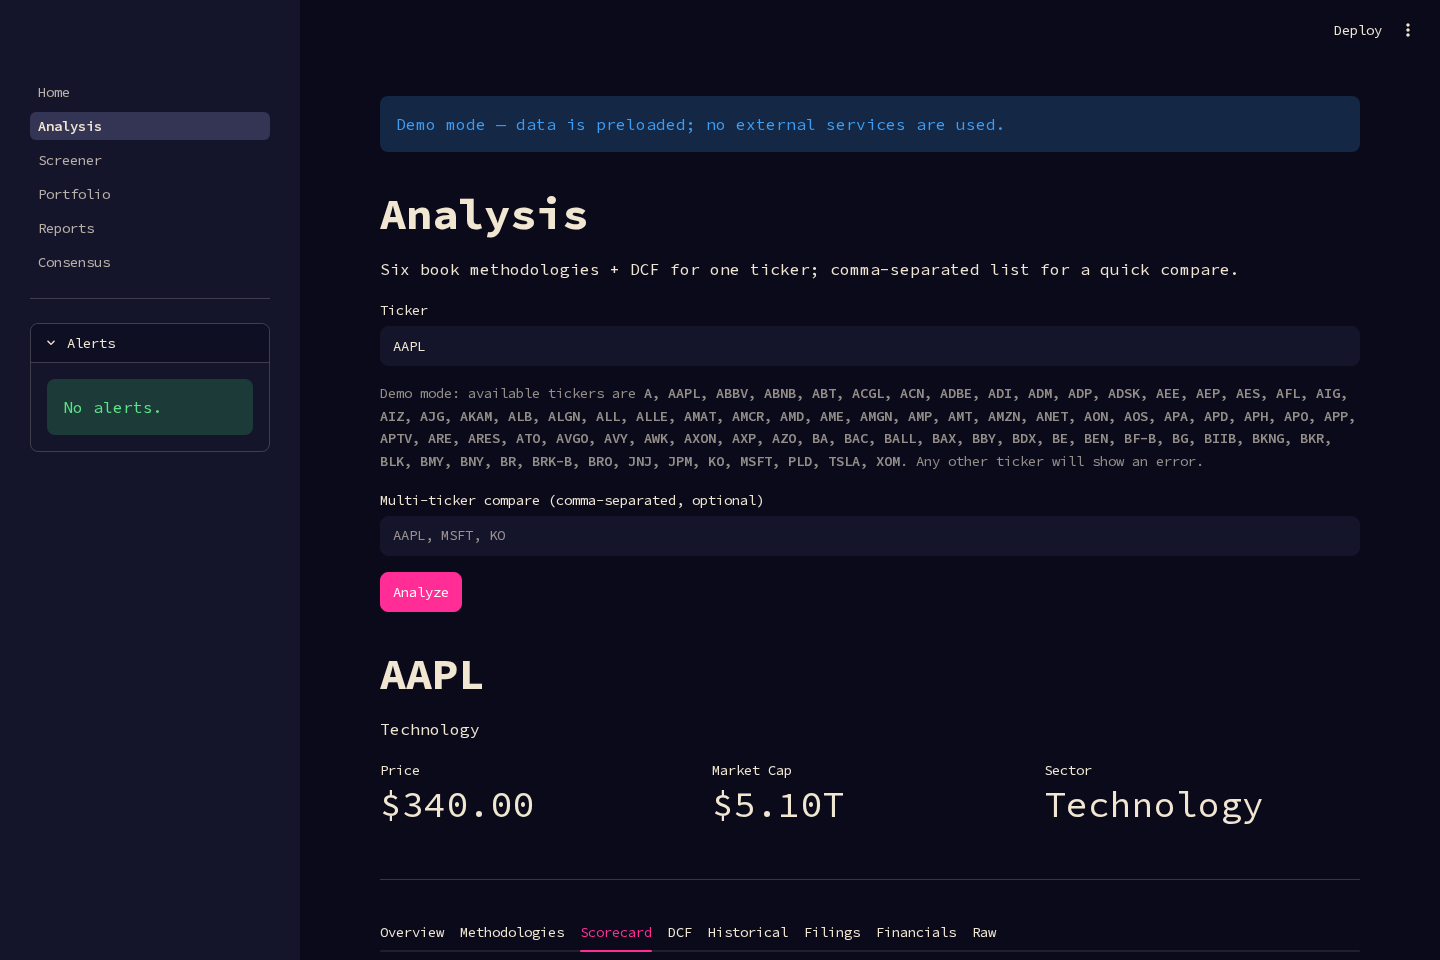
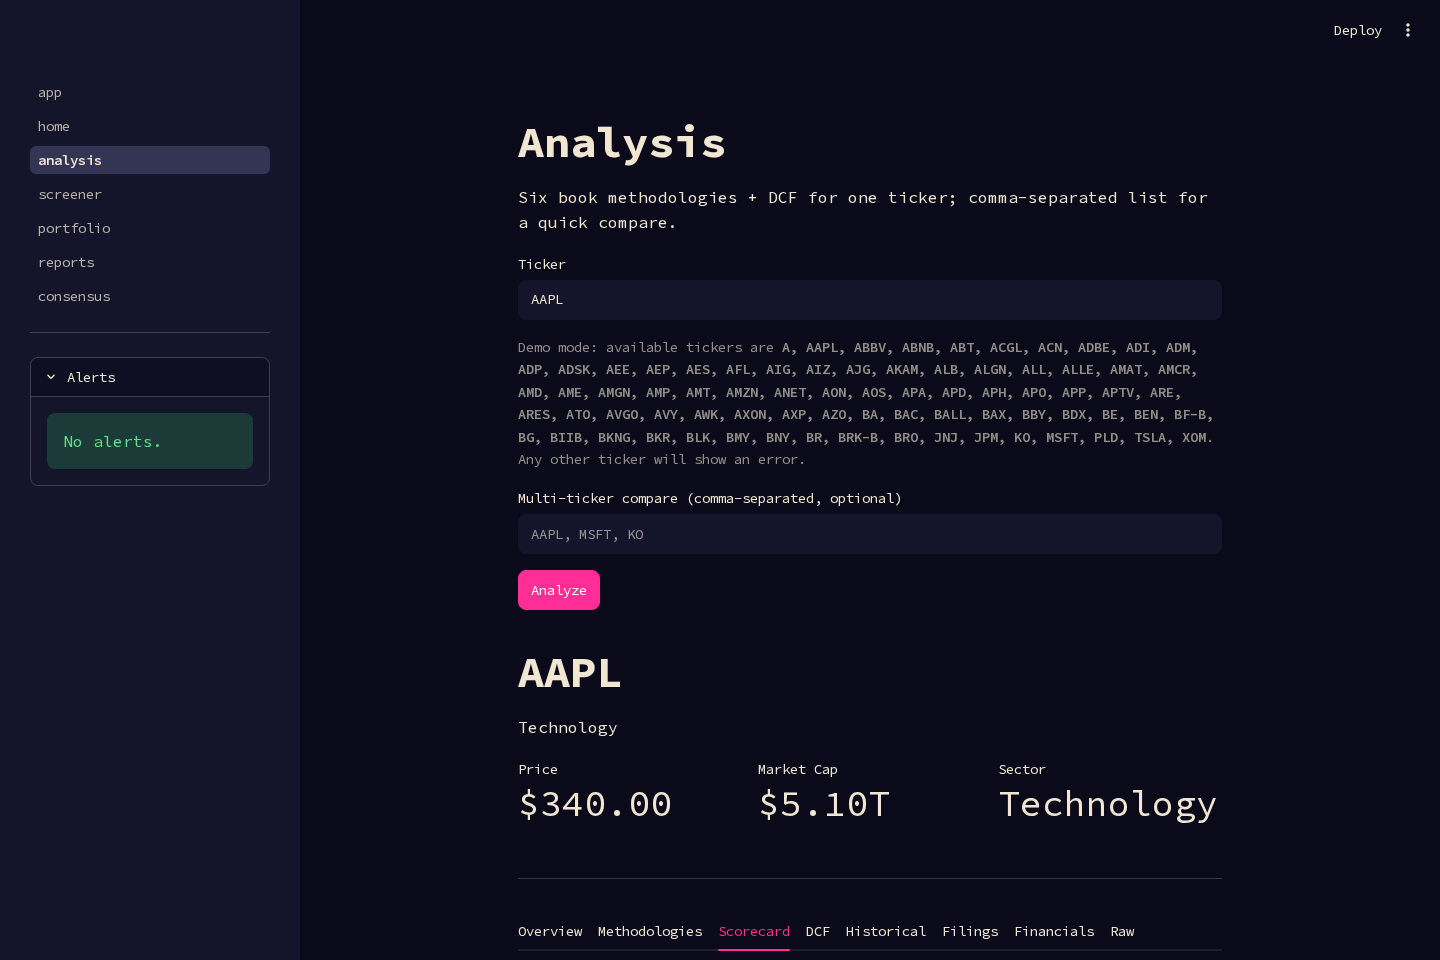
feat(scorecard): multi-select dimension filter for radar

diff --git a/tests/unit/test_ui_scorecard_tab.py b/tests/unit/test_ui_scorecard_tab.py
@@ -399,6 +399,138 @@ def test_focus_selector_lists_the_dimensions(monkeypatch):
     assert focus.options == ["—", *_DIMENSION_LABELS]
 
 
+# --- radar dimension filter (approved option B) ---------------------------
+# The filter is presentation-only: the six cards always render in full, and
+# the default (all six checked) draws the exact pre-filter radar.
+
+
+def _spy_radar_figure(monkeypatch):
+    """Record the ``dimensions`` each radar render receives (still builds it)."""
+    from ui.charts import radar_figure as _real
+
+    captured: list[list[dict]] = []
+
+    def _spy(dimensions):
+        captured.append(dimensions)
+        return _real(dimensions)
+
+    monkeypatch.setattr("ui.charts.radar_figure", _spy)
+    return captured
+
+
+def _dimension_box(at: AppTest, label: str):
+    return next(
+        box
+        for box in at.checkbox
+        if box.label == label and box.label in _DIMENSION_LABELS
+    )
+
+
+def _radar_captions(at: AppTest) -> list[str]:
+    return [
+        caption.value
+        for caption in at.caption
+        if "dimensions shown" in caption.value or "Not scored" in caption.value
+    ]
+
+
+def test_radar_default_shows_all_six(monkeypatch):
+    captured = _spy_radar_figure(monkeypatch)
+    at = _run(monkeypatch, _payload())
+    # All six checked, no filter caption, and the render is the unfiltered one.
+    assert all(_dimension_box(at, label).value for label in _DIMENSION_LABELS)
+    assert at.session_state["scorecard_radar_filter"] == list(_DIMENSION_LABELS)
+    assert [dimension["label"] for dimension in captured[-1]] == list(_DIMENSION_LABELS)
+    assert _radar_captions(at) == []
+
+
+def test_radar_filter_removes_axis(monkeypatch):
+    from ui.charts import radar_data
+
+    captured = _spy_radar_figure(monkeypatch)
+    at = _run(monkeypatch, _payload())
+    _dimension_box(at, "Growth").set_value(False)
+    at.run()
+    assert not at.exception, at.exception
+    visible = [dimension["label"] for dimension in captured[-1]]
+    assert "Growth" not in visible
+    assert len(visible) == 5
+    labels, _radii = radar_data(captured[-1])
+    assert "Growth" not in labels and len(labels) == 5
+    assert at.session_state["scorecard_radar_filter"] == [
+        label for label in _DIMENSION_LABELS if label != "Growth"
+    ]
+
+
+def test_radar_filter_prevents_below_three(monkeypatch):
+    at = _run(monkeypatch, _payload())
+    for label in ("Growth", "Profitability", "Financial Health"):
+        _dimension_box(at, label).set_value(False)
+        at.run()
+        assert not at.exception, at.exception
+    selected = at.session_state["scorecard_radar_filter"]
+    assert selected == ["Valuation", "Shareholder Returns", "Management/Moat"]
+    # At the floor the remaining checked boxes are disabled; the unchecked
+    # ones stay enabled so the set can grow again.
+    for label in _DIMENSION_LABELS:
+        box = _dimension_box(at, label)
+        assert box.disabled is (label in selected), label
+
+
+def test_radar_filter_restores_fill_when_hiding_missing(monkeypatch):
+    from ui.charts import radar_figure
+
+    payload = _payload()
+    payload["dimensions"][4]["score"] = None  # Shareholder Returns → gap
+    captured = _spy_radar_figure(monkeypatch)
+    at = _run(monkeypatch, payload)
+    # With the gap on screen the axis is reported unscored (current behaviour).
+    assert any("Not scored" in c for c in _radar_captions(at))
+    _dimension_box(at, "Shareholder Returns").set_value(False)
+    at.run()
+    assert not at.exception, at.exception
+    visible = [dimension["label"] for dimension in captured[-1]]
+    assert "Shareholder Returns" not in visible and len(visible) == 5
+    # No visible gap left → the polygon gets its fill back.
+    assert radar_figure(captured[-1]).data[0].fill == "toself"
+    assert _radar_captions(at) == ["5 of 6 dimensions shown"]
+
+
+def test_radar_filter_shared_across_tickers(monkeypatch):
+    at = _run(monkeypatch, _payload())
+    for label in ("Growth", "Valuation"):
+        _dimension_box(at, label).set_value(False)
+        at.run()
+    assert len(at.session_state["scorecard_radar_filter"]) == 4
+    next(box for box in at.text_input if box.label == "Ticker").set_value("MSFT")
+    next(button for button in at.button if button.label == "Analyze").click()
+    at.run()
+    assert not at.exception, at.exception
+    # One global key: the four-dimension selection survives the ticker switch.
+    assert len(at.session_state["scorecard_radar_filter"]) == 4
+    assert not _dimension_box(at, "Growth").value
+    assert not _dimension_box(at, "Valuation").value
+
+
+def test_radar_filter_caption_counts(monkeypatch):
+    at = _run(monkeypatch, _payload())
+    assert not any("dimensions shown" in c for c in _radar_captions(at))
+    for label in ("Growth", "Management/Moat"):
+        _dimension_box(at, label).set_value(False)
+        at.run()
+    assert "4 of 6 dimensions shown" in _radar_captions(at)
+    # With a visible gap the count and the unscored note join one caption.
+    payload = _payload()
+    payload["dimensions"][4]["score"] = None  # Shareholder Returns → gap
+    at = _run(monkeypatch, payload)
+    _dimension_box(at, "Growth").set_value(False)
+    at.run()
+    assert (
+        "5 of 6 dimensions shown · Not scored (insufficient data): Shareholder "
+        "Returns" in _radar_captions(at)
+    )
+
+
 def _payload_with_peers(*, percentile: float | None = 0.62) -> dict:
     """The AAPL payload with a peer-covered Valuation rule and a group."""
     payload = _payload()

diff --git a/ui/pages/02_analysis.py b/ui/pages/02_analysis.py
@@ -644,8 +644,13 @@ def _render_scorecard(ticker: str) -> None:
         st.caption("Quarterly data not available for all rules.")
 
     dimensions = card["dimensions"]
+    dimension_labels = [dimension["label"] for dimension in dimensions]
+    visible = set(_scorecard_radar_filter(dimension_labels))
     focus = _scorecard_focus(dimensions, ticker)
-    _scorecard_radar(dimensions)
+    _scorecard_radar(
+        [dimension for dimension in dimensions if dimension["label"] in visible],
+        total=len(dimensions),
+    )
 
     for start in range(0, len(dimensions), 2):
         columns = st.columns(2)
@@ -689,8 +694,80 @@ def _scorecard_focus(dimensions: list[dict], ticker: str) -> str | None:
     return None if choice == "—" else choice
 
 
-def _scorecard_radar(dimensions: list[dict]) -> None:
-    """Six-axis radar of the dimension scores, with a text-only fallback."""
+#: Radar dimension filter (approved design option B): one global
+#: ``session_state`` key — shared across tickers — and a hard floor: at the
+#: floor the checked boxes render ``disabled``, so the uncheck is refused at
+#: the source instead of silently reverted after the click.
+_DIMENSIONS_FILTER_KEY = "scorecard_radar_filter"
+_DIMENSIONS_MIN_VISIBLE = 3
+#: Checkbox grid rows (six dimensions → two rows of three: wide tap targets).
+_RADAR_FILTER_ROW = 3
+
+
+def _radar_filter_widget_key(label: str) -> str:
+    """Explicit ``st.checkbox`` key for one dimension label."""
+    return f"scorecard_radar_dim_{label}"
+
+
+def _scorecard_radar_filter(all_dimensions: list[str]) -> list[str]:
+    """Checkbox grid choosing which dimensions the radar draws.
+
+    Presentation only: the dimension cards below always show all six. The
+    selection lives in one global ``session_state`` key, so it survives
+    ticker switches and reruns; the default is every dimension shown, which
+    renders the exact pre-filter radar. ``_DIMENSIONS_MIN_VISIBLE`` is
+    enforced natively — once only the minimum remain, their checkboxes are
+    rendered ``disabled``. Returns the visible labels in the canonical
+    dimension order.
+    """
+    if _DIMENSIONS_FILTER_KEY not in st.session_state:
+        st.session_state[_DIMENSIONS_FILTER_KEY] = list(all_dimensions)
+
+    def _commit_widget_states() -> None:
+        # ``on_change`` runs before the rerun a click triggers: by then the
+        # widget values in session_state already hold the user's choice.
+        previous = set(st.session_state.get(_DIMENSIONS_FILTER_KEY, all_dimensions))
+        st.session_state[_DIMENSIONS_FILTER_KEY] = [
+            label
+            for label in all_dimensions
+            if st.session_state.get(
+                _radar_filter_widget_key(label),
+                label in previous,
+            )
+        ]
+
+    visible_set = set(st.session_state[_DIMENSIONS_FILTER_KEY]) & set(all_dimensions)
+    visible = [
+        label for label in all_dimensions if label in visible_set
+    ]  # canonical order, unknown labels dropped
+
+    st.markdown("**Dimensions shown on radar**")
+    for start in range(0, len(all_dimensions), _RADAR_FILTER_ROW):
+        row = all_dimensions[start : start + _RADAR_FILTER_ROW]
+        columns = st.columns(len(row))
+        for column, label in zip(columns, row, strict=True):
+            with column:
+                checked = label in visible_set
+                widget_key = _radar_filter_widget_key(label)
+                # The global key wins over any stale widget state, so a
+                # programmatic selection and the checkboxes never diverge.
+                st.session_state[widget_key] = checked
+                st.checkbox(
+                    label,
+                    key=widget_key,
+                    disabled=checked and len(visible_set) <= _DIMENSIONS_MIN_VISIBLE,
+                    on_change=_commit_widget_states,
+                )
+    return visible
+
+
+def _scorecard_radar(dimensions: list[dict], *, total: int | None = None) -> None:
+    """The radar over ``dimensions`` (a filter subset) plus a text fallback.
+
+    ``total`` is how many dimensions the scorecard holds: when the filter
+    hides any, one caption states "N of M dimensions shown" joined with the
+    unscored-axis note — which only ever lists axes still visible.
+    """
     from ui.charts import radar_data, radar_figure, radar_missing
 
     labels, radii = radar_data(dimensions)
@@ -709,9 +786,14 @@ def _scorecard_radar(dimensions: list[dict]) -> None:
         )
     else:
         st.plotly_chart(figure, config={"displayModeBar": False})
+    captions = []
+    if total is not None and len(dimensions) < total:
+        captions.append(f"{len(dimensions)} of {total} dimensions shown")
     missing = radar_missing(labels, radii)
     if missing:
-        st.caption("Not scored (insufficient data): " + ", ".join(missing))
+        captions.append("Not scored (insufficient data): " + ", ".join(missing))
+    if captions:
+        st.caption(" · ".join(captions))
 
 
 def _scorecard_charts(ticker: str, card: dict) -> None:
